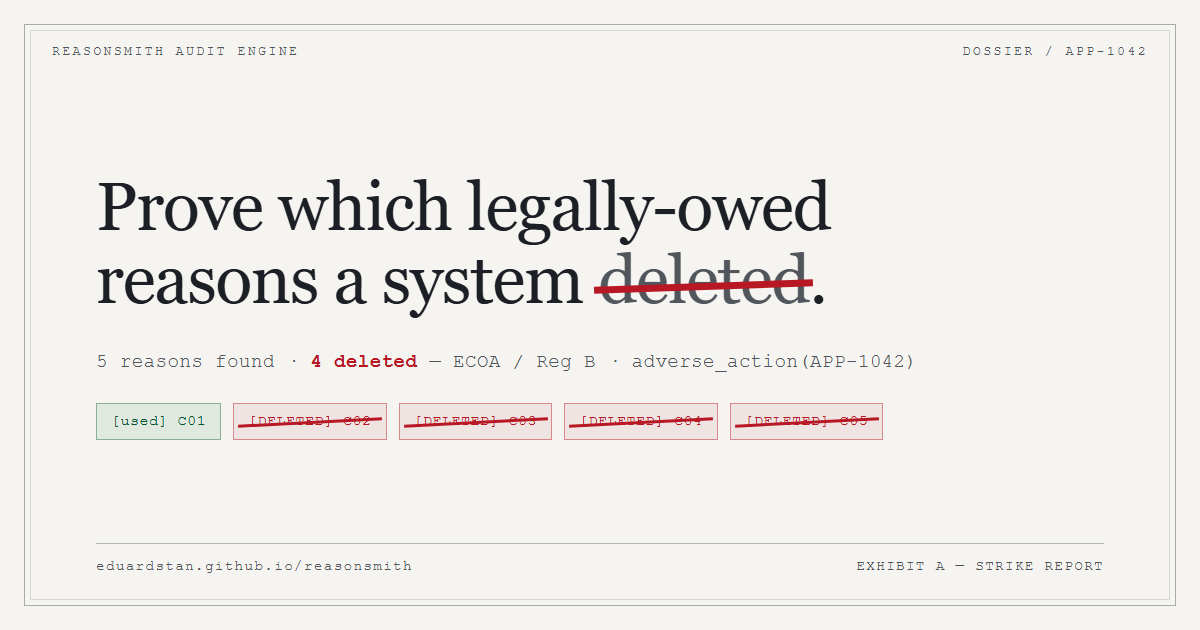
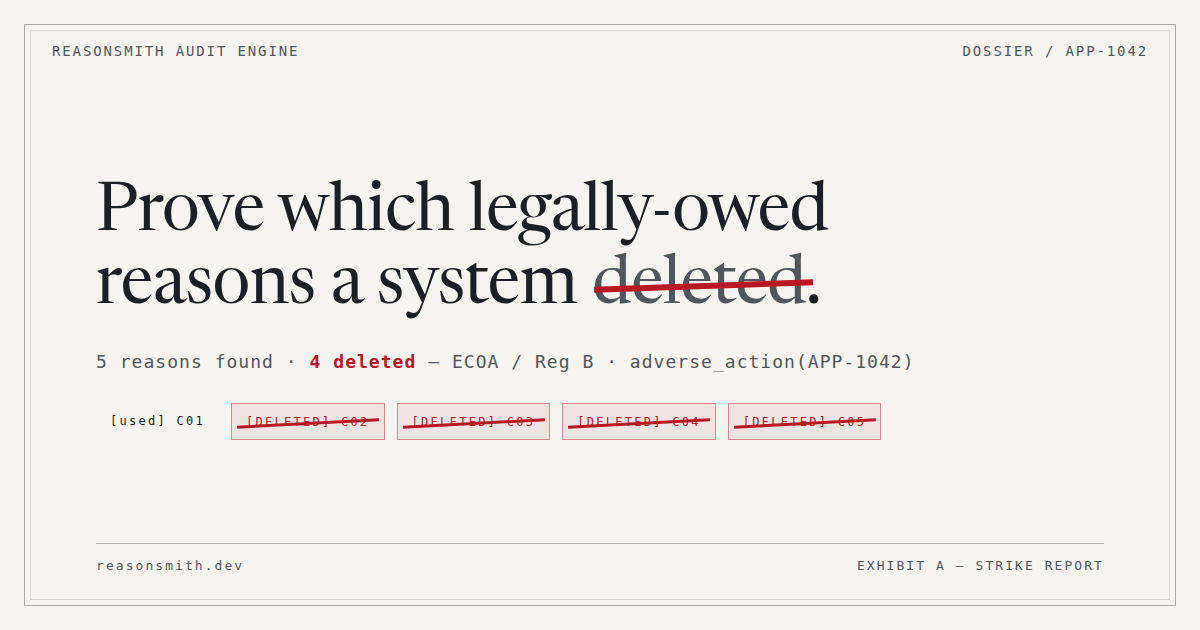
fix(brand): give the social card a source, and point it at reasonsmith.dev
assets/og.png entered the repo as a binary with no source, so the dead
address in its bottom-left corner — eduardstan.github.io/reasonsmith, a
GitHub Pages site that no longer exists — could not be corrected without
rebuilding the image by hand.

brand/og.html rebuilds the card from the site's own type and colour tokens
(site/css/landing.css) and documents the render command and viewport at the
top of the file. The regenerated PNG is identical to the old one apart from
the footer URL, which now reads reasonsmith.dev.

diff --git a/brand/og.html b/brand/og.html
@@ -1,0 +1,124 @@
+<!DOCTYPE html>
+<!--
+  reasonsmith social card — the source for assets/og.png (OpenGraph + Twitter
+  summary_large_image, referenced from index.html).
+
+  assets/og.png is GENERATED FROM THIS FILE. Do not edit the PNG: edit this
+  page and re-render it.
+
+      chrome-devtools-axi resize 1200 630
+      chrome-devtools-axi open "file://$PWD/brand/og.html"
+      chrome-devtools-axi screenshot /tmp/og-render.png
+      cp /tmp/og-render.png assets/og.png
+
+  (chrome-devtools-axi only writes screenshots under /tmp, hence the copy.)
+
+  Viewport is exactly 1200x630 — the OpenGraph size the card is served at.
+  Type, colour and spacing come from the site itself (site/css/landing.css);
+  only the card-specific layout lives below. The mono sizes are tuned for the
+  fallback that --font-mono resolves to on the render box, so re-check the
+  monospace runs against the committed PNG if you render somewhere new.
+-->
+<html lang="en">
+<head>
+<meta charset="utf-8">
+<title>reasonsmith — social card 1200×630</title>
+<link rel="stylesheet" href="../site/css/landing.css">
+<style>
+  html, body { width: 1200px; height: 630px; overflow: hidden; }
+  body { background: var(--paper); color: var(--ink); }
+
+  .card { position: relative; width: 1200px; height: 630px; }
+
+  /* double rule frame */
+  .card::before, .card::after {
+    content: ""; position: absolute; pointer-events: none;
+  }
+  .card::before { inset: 24px; border: 1px solid rgba(28, 31, 37, 0.35); }
+  .card::after  { inset: 30px; border: 1px solid rgba(28, 31, 37, 0.143); }
+
+  .eyebrow, .footer {
+    position: absolute; display: flex; justify-content: space-between;
+    font-family: var(--font-mono);
+    color: var(--ink-muted);
+    line-height: 1;
+  }
+  .eyebrow {
+    left: 52px; right: 52px; top: 44px;
+    font-size: 14px; letter-spacing: 0.134em;
+  }
+  .footer {
+    left: 96px; right: 96px; top: 559px;
+    font-size: 13px; letter-spacing: 0.158em;
+  }
+
+  .headline {
+    position: absolute; left: 96px; top: 178px;
+    font-family: var(--font-serif);
+    font-size: 67px; font-weight: 400; line-height: 73px;
+    letter-spacing: -0.01em;
+  }
+  .headline .struck { position: relative; color: var(--ink-muted); }
+  .headline .struck::after {
+    content: ""; position: absolute; left: 2px; right: -7px; top: calc(50% - 5px);
+    height: 6px; background: var(--accent); transform: rotate(-2deg);
+  }
+
+  .subline {
+    position: absolute; left: 96px; top: 353px;
+    font-family: var(--font-mono); font-size: 18px; line-height: 1;
+    letter-spacing: 0.057em;
+    color: var(--ink-muted);
+  }
+  .subline .n { color: var(--accent); font-weight: 700; }
+
+  .chips {
+    position: absolute; left: 96px; top: 403px;
+    display: flex; gap: 12px;
+    font-family: var(--font-mono); font-size: 12px; line-height: 1;
+  }
+  .chip {
+    position: relative; padding: 11.5px 14px;
+    letter-spacing: 0.19em;
+  }
+  /* chip greens/reds are sampled from the card itself — they are a shade off
+     the --ok-*/--accent-* tokens the landing page uses for reason rows. */
+  .chip.used {
+    background: #dfe9e0; border: 1px solid #89b096; color: #07502c;
+  }
+  .chip.gone {
+    background: #f0e4e2; border: 1px solid #d7888c; color: var(--accent);
+  }
+  .chip.gone::after {
+    content: ""; position: absolute; left: 5px; right: 5px; top: 50%;
+    height: 3px; background: var(--accent); transform: rotate(-3deg);
+  }
+
+  .rule {
+    position: absolute; left: 96px; top: 543px; width: 1008px; height: 1px;
+    background: rgba(28, 31, 37, 0.305);
+  }
+</style>
+</head>
+<body>
+<div class="card">
+  <div class="eyebrow"><span>REASONSMITH AUDIT ENGINE</span><span>DOSSIER / APP-1042</span></div>
+
+  <h1 class="headline">Prove which legally-owed<br>reasons a system <span class="struck">deleted</span>.</h1>
+
+  <p class="subline">5 reasons found · <span class="n">4 deleted</span> — ECOA / Reg B · adverse_action(APP-1042)</p>
+
+  <div class="chips">
+    <span class="chip used">[used] C01</span>
+    <span class="chip gone">[DELETED] C02</span>
+    <span class="chip gone">[DELETED] C03</span>
+    <span class="chip gone">[DELETED] C04</span>
+    <span class="chip gone">[DELETED] C05</span>
+  </div>
+
+  <div class="rule"></div>
+
+  <div class="footer"><span>reasonsmith.dev</span><span>EXHIBIT A — STRIKE REPORT</span></div>
+</div>
+</body>
+</html>
